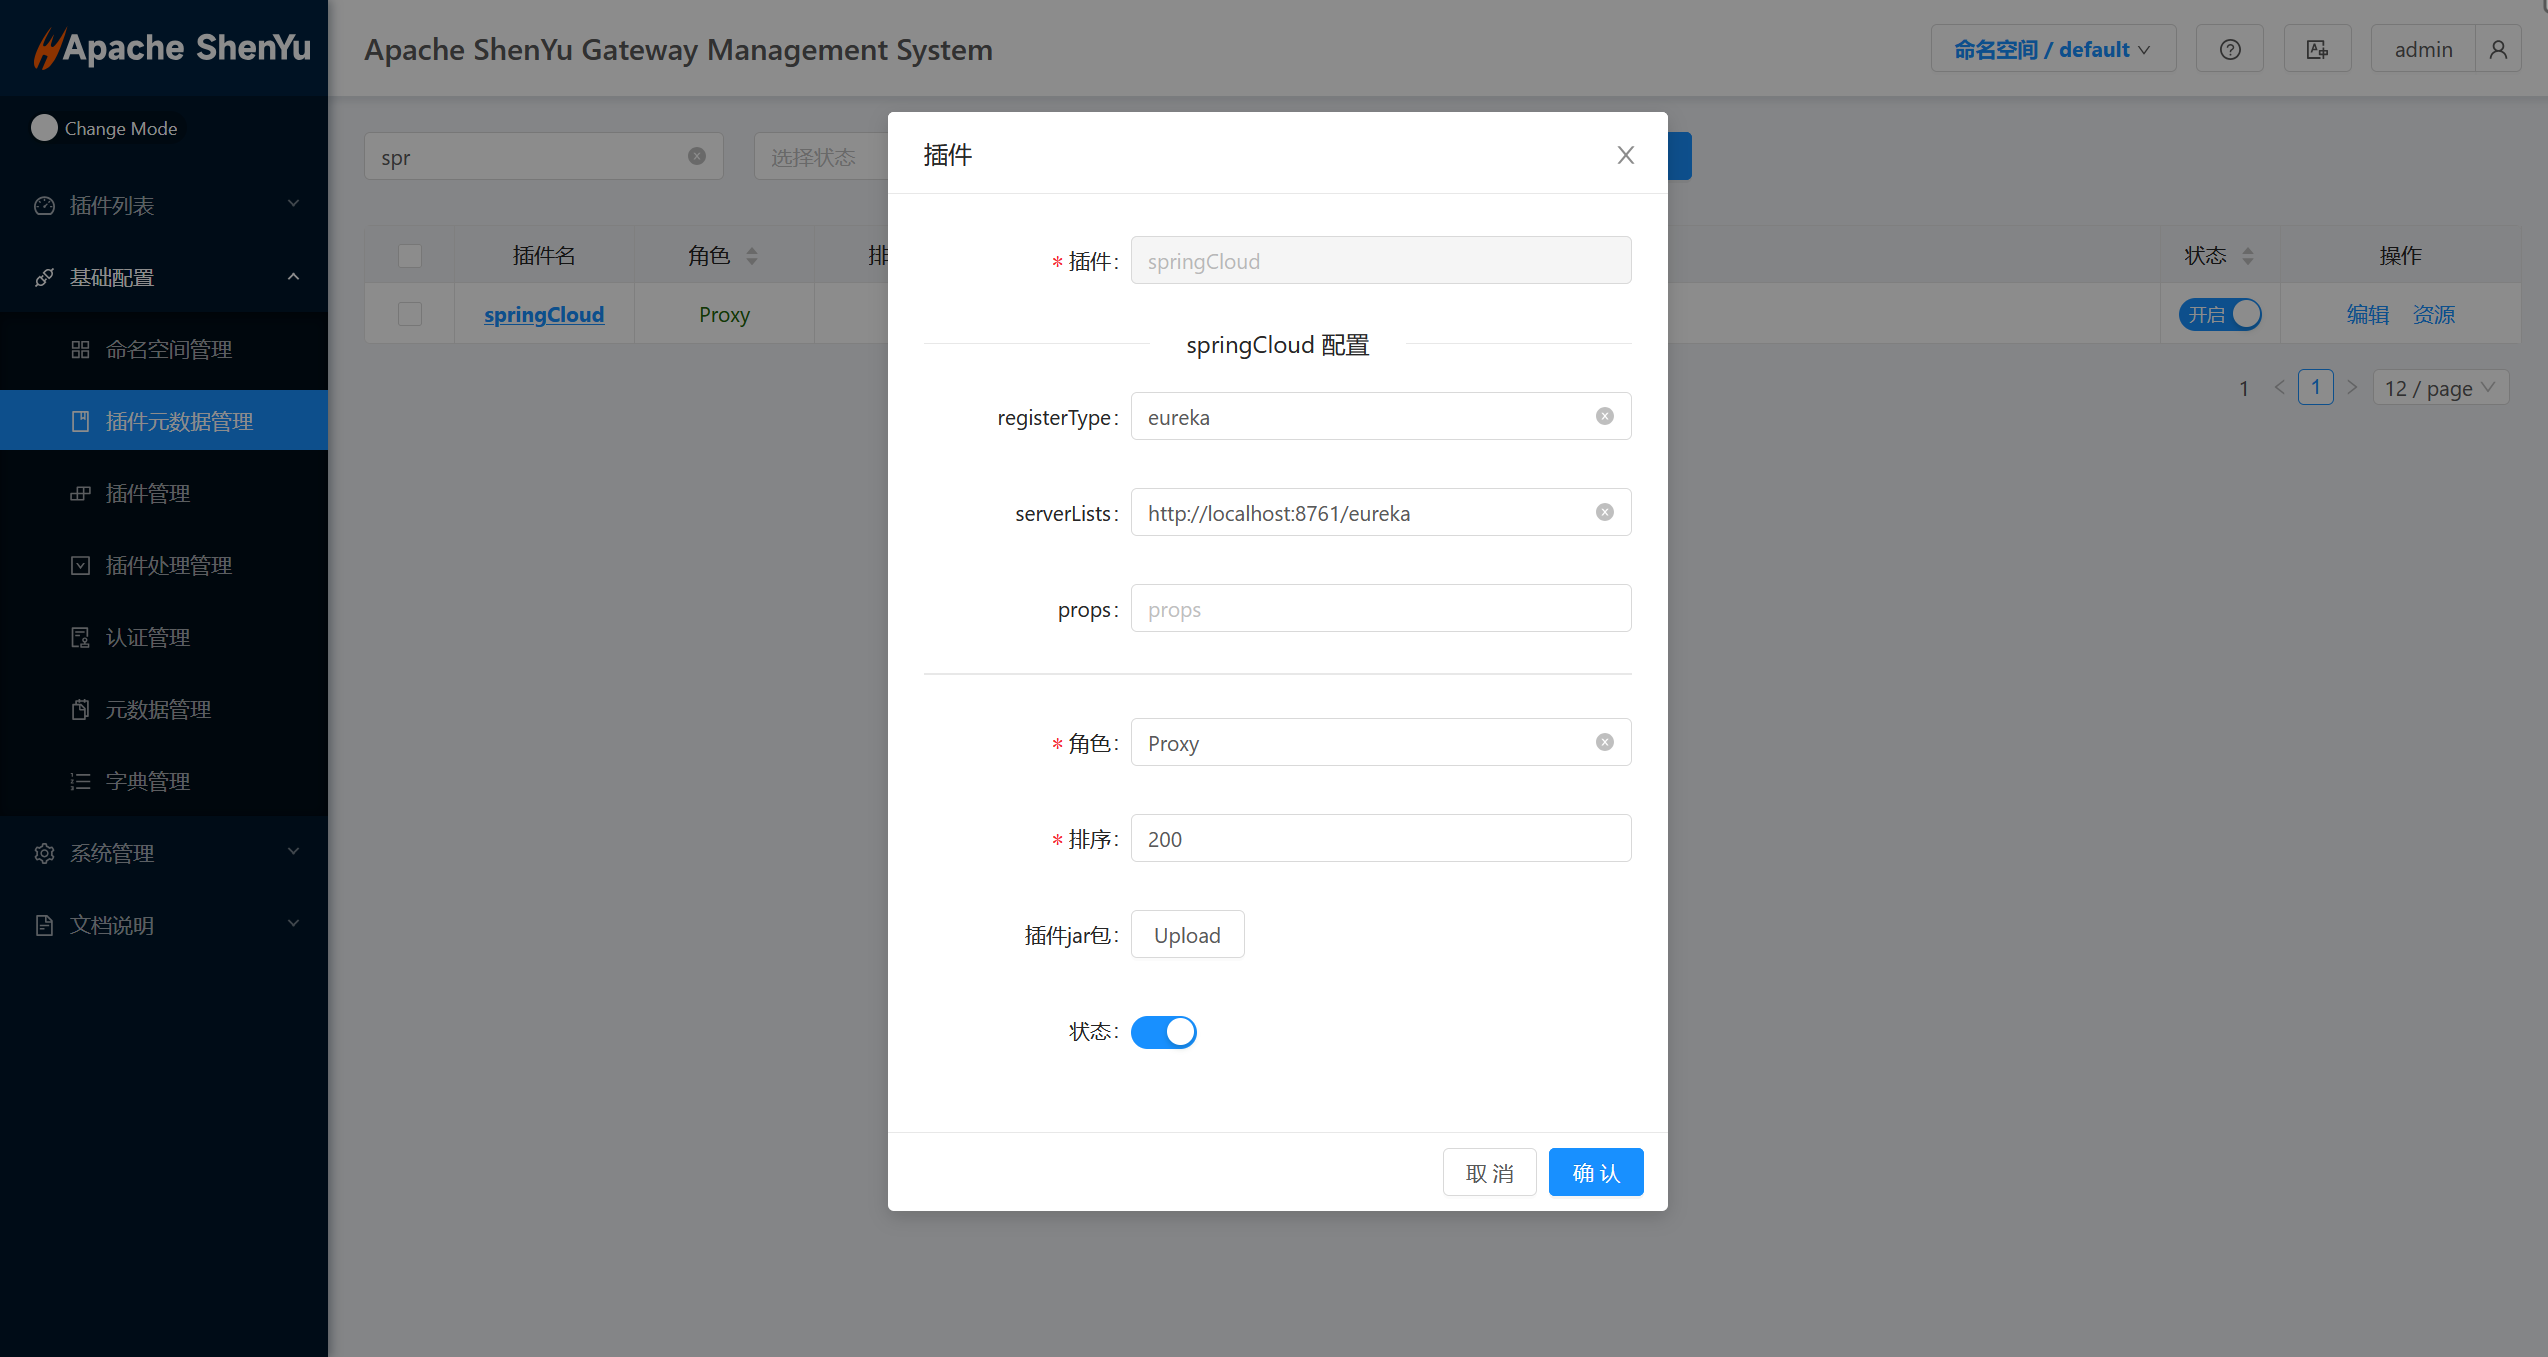
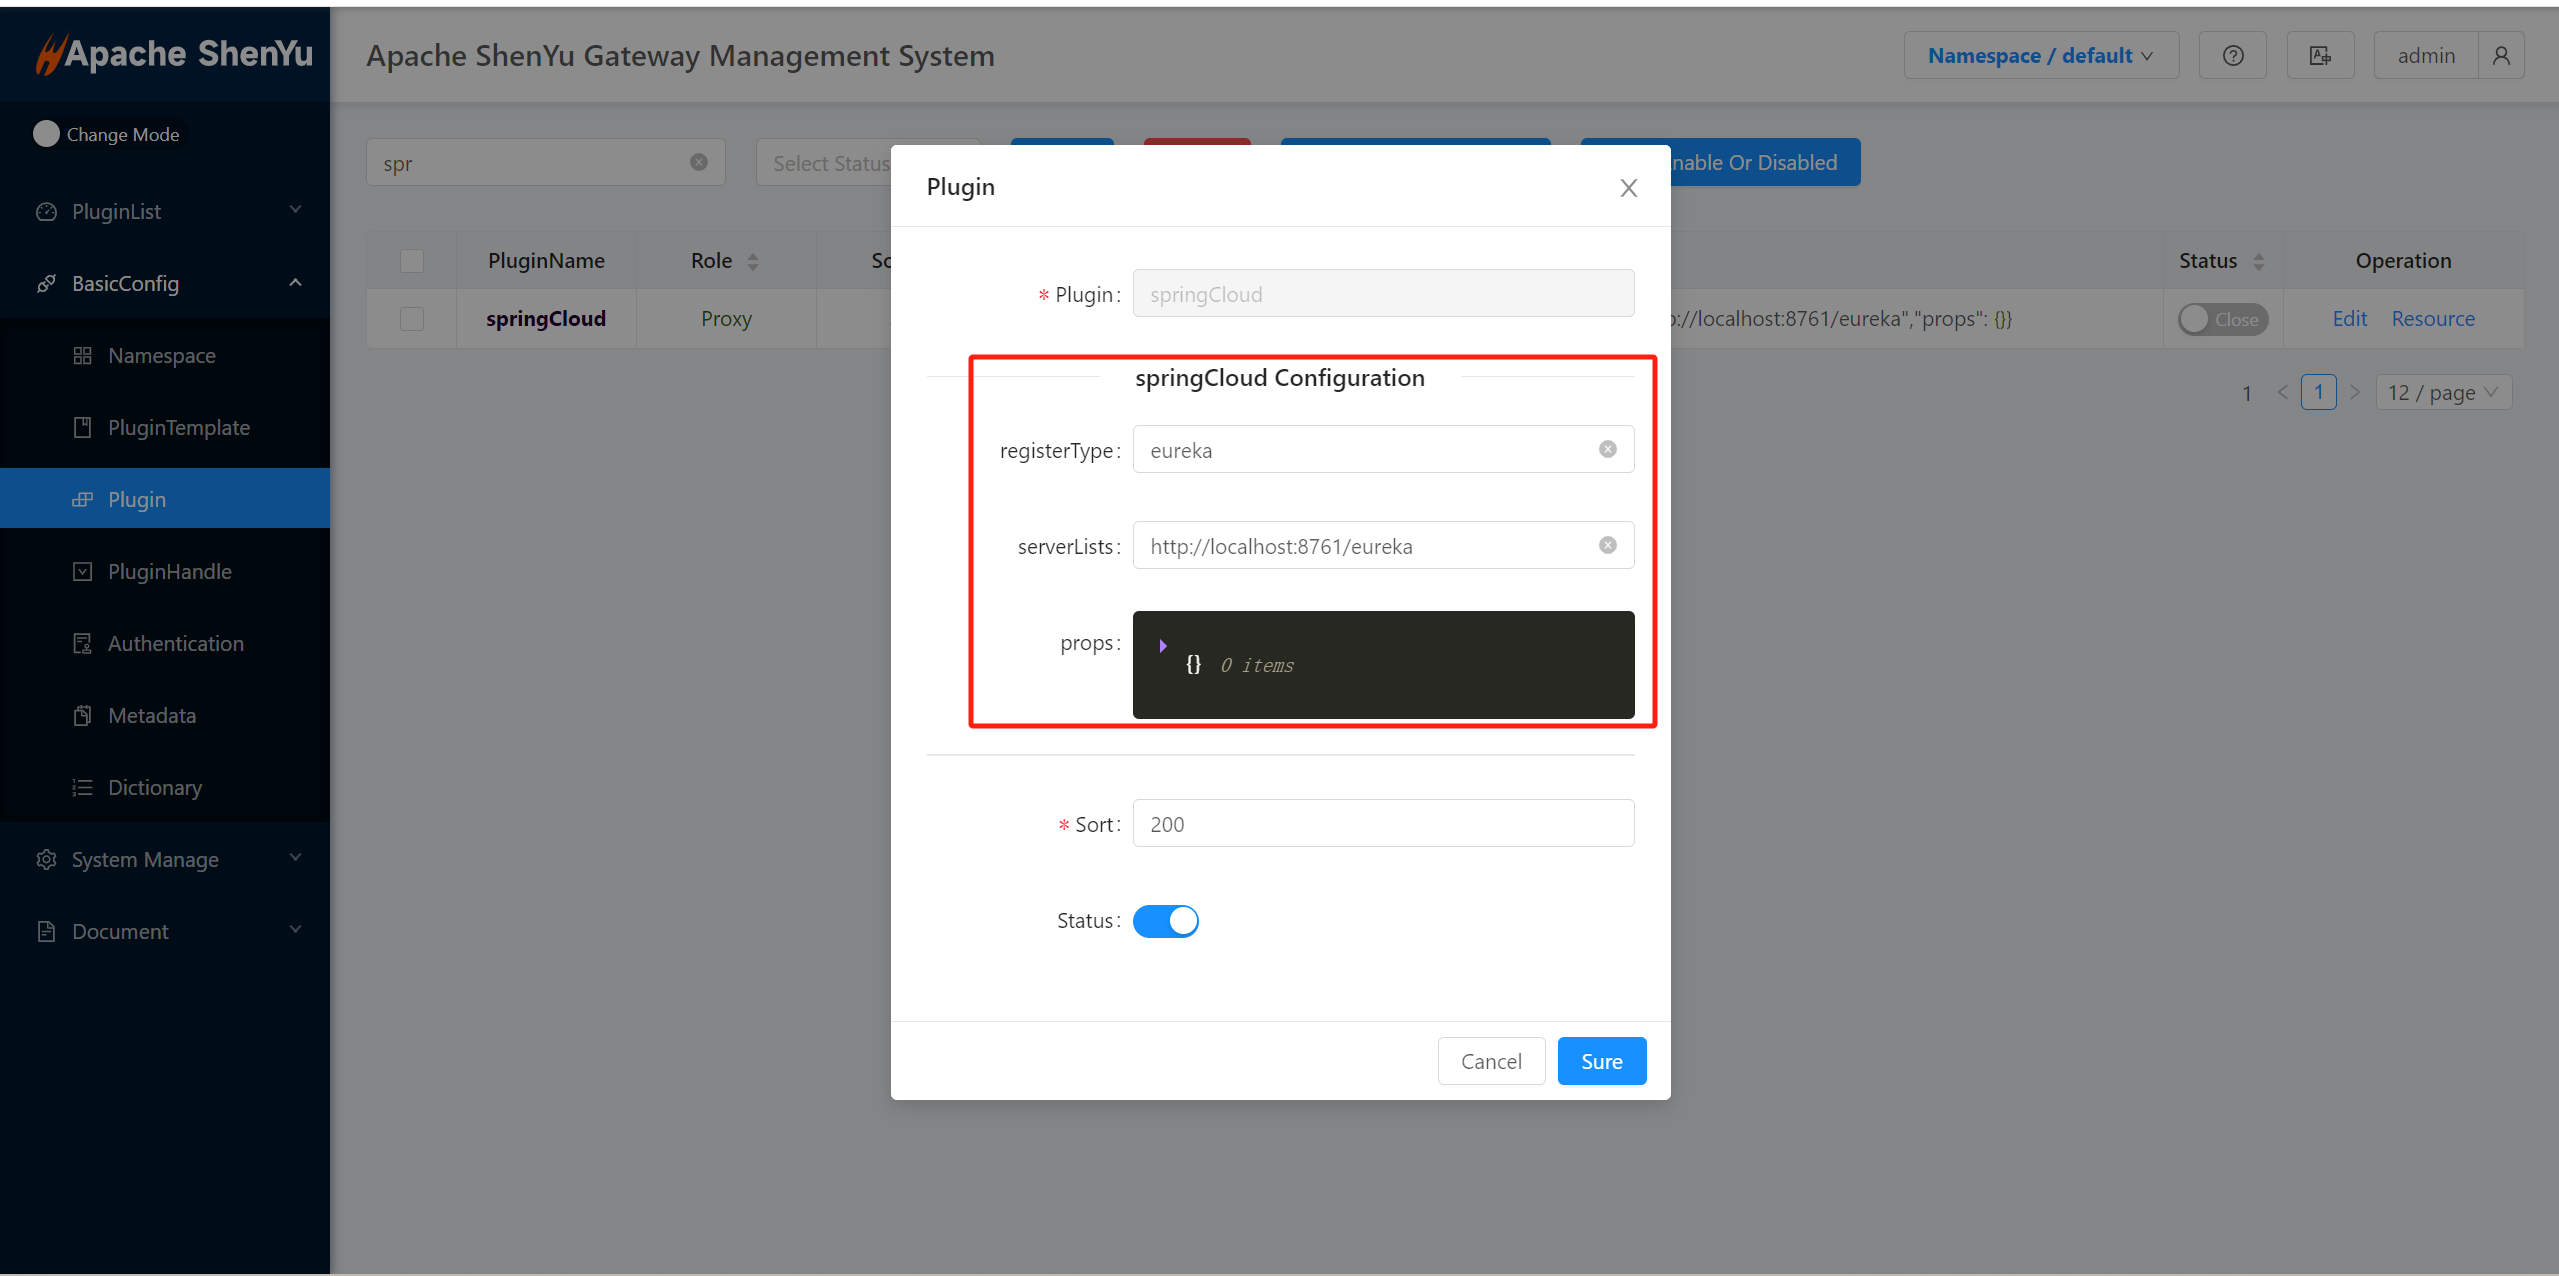
springcloud dynamic register doc

diff --git a/i18n/zh/docusaurus-plugin-content-docs/current/quick-start/quick-start-springcloud.md b/i18n/zh/docusaurus-plugin-content-docs/current/quick-start/quick-start-springcloud.md
@@ -90,11 +90,8 @@ public class ShenyuBootstrapApplication {
 
 启动`shenyu-bootstrap`项目。
 
-## springCloud插件增强
-用于在admin侧配置注册中心相关信息。
-- 目前Shenyu 上的 SpringCloudPlugin 插件实现了对注册中心的服务发现的支持。但是无法做到动态切换注册中心。为了能让使用者更加清晰的使用该插件，以及能更便捷的切换注册中心的配置，而做出以下需求。从而降低用户的使用成本，以及使用体验。
-- 痛点1：目前一定要在网关的配置文件中配置注册中心相关信息，而且不同注册中心的配置项不统一（例如eureka和nacos）。
-- 痛点2：目前Shenyu 上的 SpringCloudPlugin 插件实现了对注册中心的服务发现的支持。但是无法做到动态切换注册中心。
+## 在admin侧配置注册中心相关信息
+- 目前Shenyu 上的 SpringCloudPlugin 插件实现了对注册中心的服务发现的支持。但是无法做到动态切换注册中心。为了能让使用者更加清晰的使用该插件，以及能更便捷的切换注册中心的配置，shenyu支持开发者在admin页面上配置注册中心以及切换注册中心，从而降低用户的使用成本，以及使用体验。
 
 具体操作流程：
 
@@ -104,12 +101,22 @@ public class ShenyuBootstrapApplication {
 - 启动shenyu-examples下的shenyu-examples-springcloud
 - 在admin的系统界面上配置注册中心的相关信息，并点击确认
 
-以eureka注册中心配置举例，通过页面的方式统一不同注册中心的配置项：
+以eureka注册中心配置举例，来展示如何在页面上配置注册中心相关信息：
 
 <img src="/img/shenyu/quick-start/springcloud/springCloud-dynamic-register-operate.png" width="60%" height="50%" />
 
+如上图，registerType表示注册中心类型，支持以下注册中心：
 
-点击确认后，即使用eureka作为springCloudPlugin的注册中心。
+- eureka
+- nacos
+- zookeeper
+- apollo
+- consul
+- etcd
+- polaris
+- kubernetes
+
+serverLists表示注册中心ip地址，props则是放置注册中心的额外配置项，例如namespace、username等。 点击确认后，即使用eureka作为springCloudPlugin的注册中心。
 
 
 ## 运行shenyu-examples-springcloud

diff --git a/docs/quick-start/quick-start-springcloud.md b/docs/quick-start/quick-start-springcloud.md
@@ -91,6 +91,34 @@ public class ShenyuBootstrapApplication {
 
 Restart the `shenyu-bootstrap` project.
 
+## Configure the registration center related information on the admin side
+- Currently, the SpringCloudPlugin plugin on Shenyu implements support for service discovery of the registry center. However, it is not possible to dynamically switch the registry center. In order to allow users to use the plugin more clearly and switch the configuration of the registry center more conveniently, shenyu supports developers to configure and switch the registry center on the admin page, thereby reducing the user's usage cost and experience.
+
+Specific operation process:
+
+- Start shenyu-admin
+- Start shenyu-bootstrap
+- Start the registry center, such as the eureka project under shenyu-examples
+- Start shenyu-examples-springcloud under shenyu-examples
+- Configure the relevant information of the registry center on the admin system interface and click Confirm
+
+Take the eureka registry center configuration as an example to show how to configure the relevant information of the registry center on the page:
+
+<img src="/img/shenyu/quick-start/springcloud/springCloud-dynamic-register-operate-en.png" width="60%" height="50%" />
+
+As shown in the figure above, registerType indicates the type of registration center, and the following registration centers are supported:
+
+- eureka
+- nacos
+- zookeeper
+- apollo
+- consul
+- etcd
+- polaris
+- kubernetes
+
+serverLists indicates the IP address of the registration center, and props is the additional configuration items for the registration center, such as namespace, username, etc. After clicking OK, eureka is used as the registration center of springCloudPlugin.
+
 ## Run the shenyu-examples-springcloud project
 
 In the example project we used `Eureka` as the registry for `Spring Cloud`. You can use the local `Eureka` or the application provided in the example.
